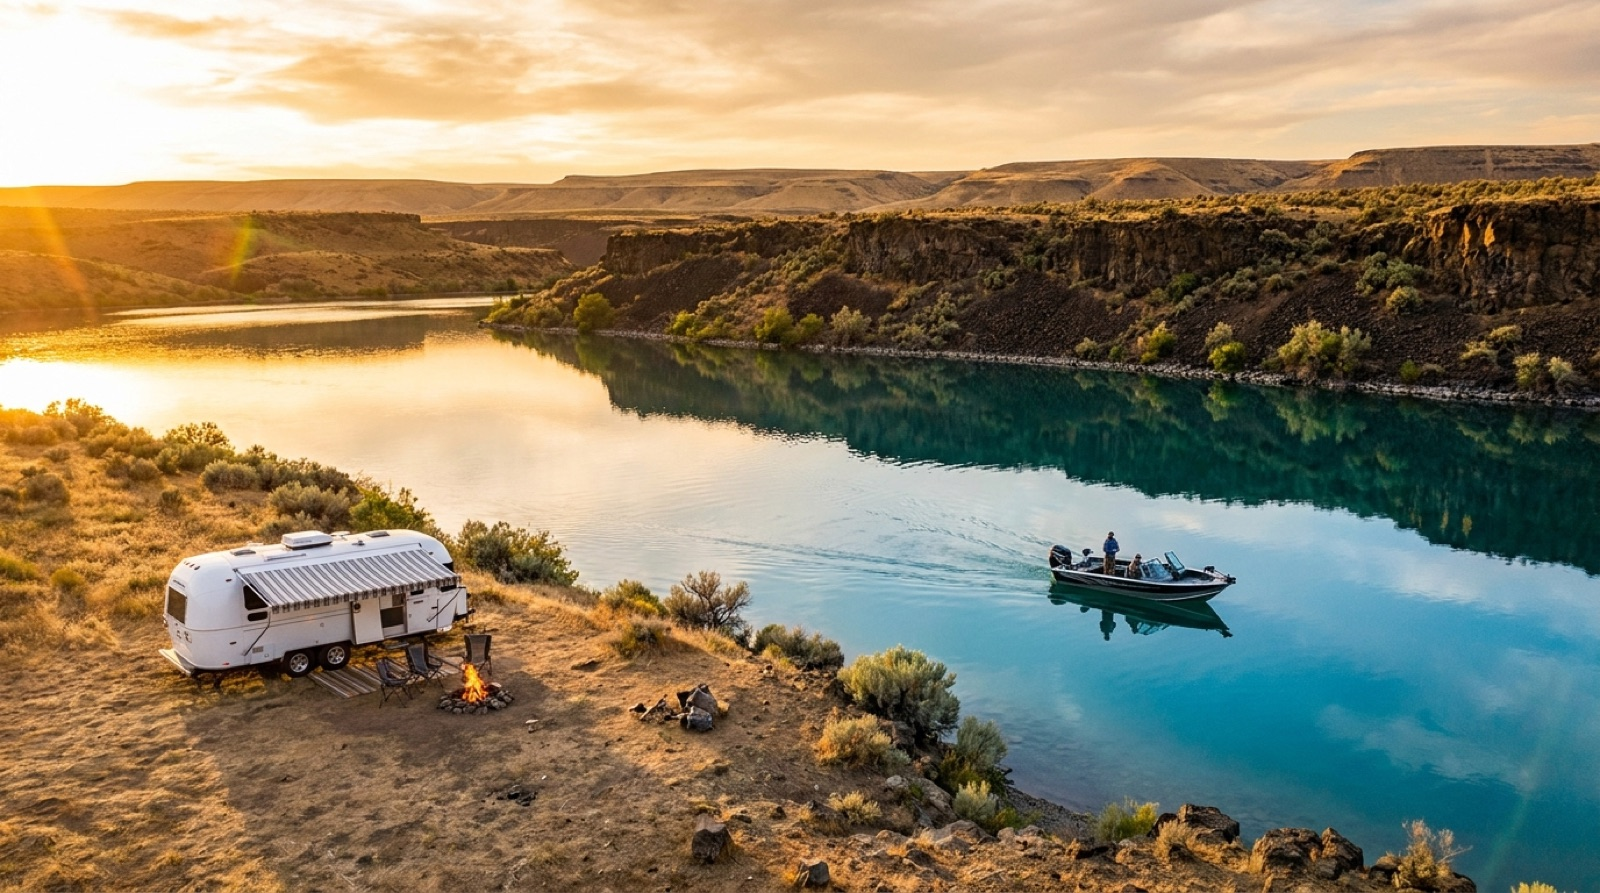
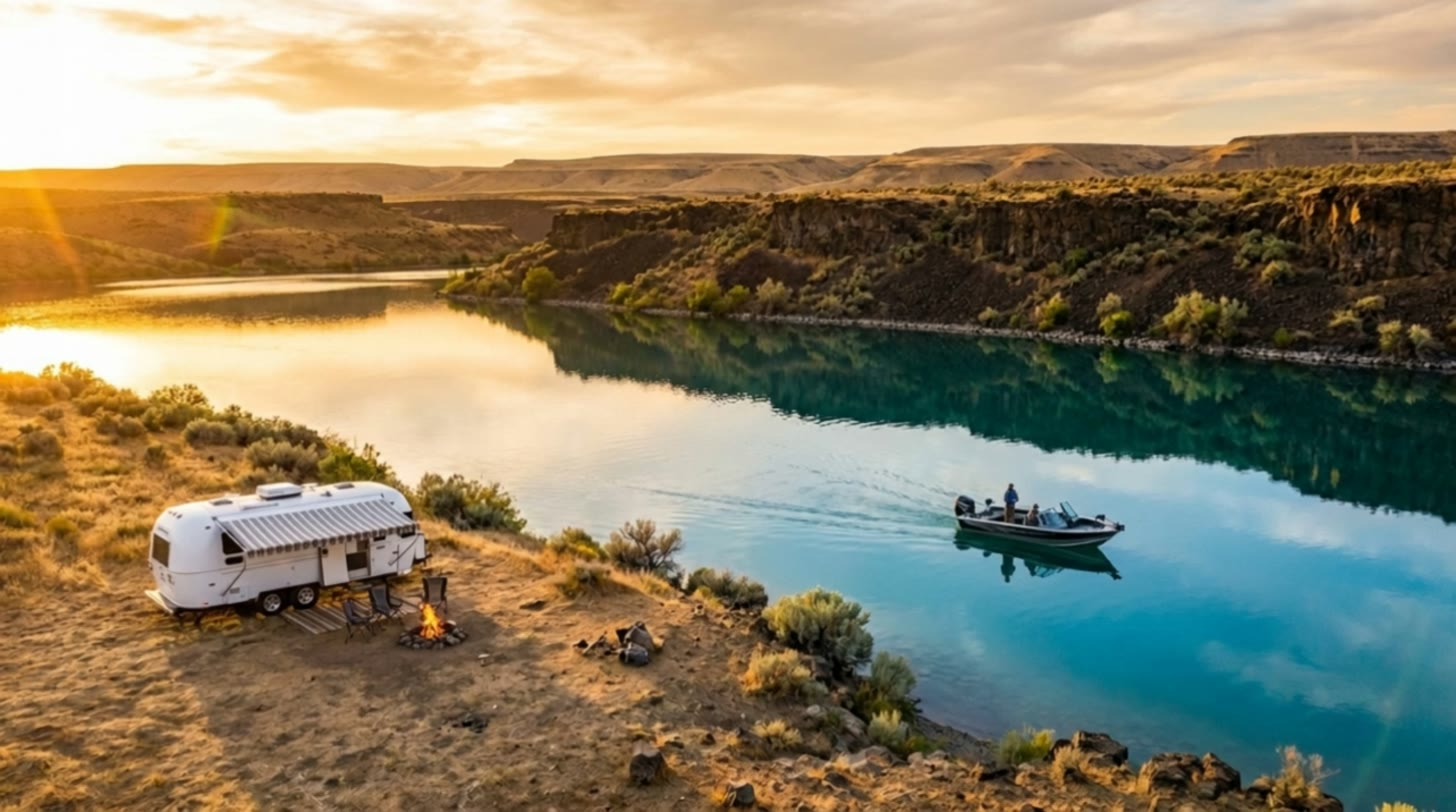
feat: hero boat drifts out of frame then settles + partial 5th star
Hero video: regenerated (Higgsfield kling) so the boat glides fully out of
frame to the right and the scene settles on calm empty water. Removed loop —
plays once and holds the settled frame. Poster updated to the new opening
frame (boat present) so poster->play is seamless; also lighter (145KB).

Star rating: 5th star now partial-filled to the fractional score (4.7 -> 0.7
≈ 3/4) via an outline star with a width-clipped filled star overlay, instead
of a hollow 5th star.

Claude-Session: https://claude.ai/code/session_01WpdCfrHPo8p3DoFqP8jMMn

diff --git a/src/app/page.tsx b/src/app/page.tsx
@@ -85,12 +85,27 @@ const TRUST_ITEMS = [
 ]
 
 function StarRow({ score, count }: { score: number; count: number }) {
+  const full = Math.floor(score)
+  const frac = score - full // e.g. 4.7 → 0.7 fill on the 5th star
   return (
     <div style={{ display: 'flex', alignItems: 'center', gap: 6 }}>
-      {[1, 2, 3, 4, 5].map(i => (
-        <Star key={i} size={16} fill={i <= score ? 'var(--color-amber)' : 'none'}
-          color="var(--color-amber)" />
-      ))}
+      {[1, 2, 3, 4, 5].map(i => {
+        if (i <= full) {
+          return <Star key={i} size={16} fill="var(--color-amber)" color="var(--color-amber)" />
+        }
+        if (i === full + 1 && frac > 0) {
+          // Partial star: empty outline with a filled star clipped to `frac` width on top.
+          return (
+            <span key={i} style={{ position: 'relative', display: 'inline-flex', width: 16, height: 16 }}>
+              <Star size={16} fill="none" color="var(--color-amber)" style={{ position: 'absolute', inset: 0 }} />
+              <span style={{ position: 'absolute', inset: 0, width: `${frac * 100}%`, overflow: 'hidden' }} aria-hidden>
+                <Star size={16} fill="var(--color-amber)" color="var(--color-amber)" />
+              </span>
+            </span>
+          )
+        }
+        return <Star key={i} size={16} fill="none" color="var(--color-amber)" />
+      })}
       <span style={{ fontSize: '0.875rem', color: 'var(--color-ink-light)', marginLeft: 4 }}>
         {score.toFixed(1)} ({count.toLocaleString()} reviews)
       </span>

diff --git a/src/components/HeroVideo.tsx b/src/components/HeroVideo.tsx
@@ -44,7 +44,6 @@ export function HeroVideo({ poster, videoSrc, alt }: Props) {
     <video
       autoPlay
       muted
-      loop
       playsInline
       poster={poster}
       preload="auto"

diff --git a/.claude/verify/history/20260707-132704.md b/.claude/verify/history/20260707-132704.md
@@ -1,0 +1,27 @@
+# Verify — soidrvmarine gap-closing deploy (2026-07-07)
+
+Live: https://soidrvmarine.worker-bee.app · Coolify deploy ydiws6eki72sm9z9tf0j1qzj (finished) · all routes HTTP 200
+
+| Spec item | Observed | Result |
+|---|---|---|
+| Inventory reseed (67 units) | Live DB reseeded 29→67 units via Supabase Mgmt API under BLAST-RADIUS receipt (backup saved). `/rvs` renders "Showing all 49 RVs", 49 unique detail links; `/boats` 18. Build generates 67 SSG detail pages. | PASS |
+| Home hero video | Snake River Canyon golden-hour loop. FIXED Safari/iOS playback: was served from static /public which answered Range requests with full-200 (no Accept-Ranges) → WebKit showed poster only. Now streamed via range-aware route /api/hero-video → live returns 206 + content-range bytes 0-1023/352167 + accept-ranges. Browser check: video element paused=false, currentTime advanced 1.20s in 1.20s wall-clock (real-time playback), readyState 4, no error. Poster fallback + reduced-motion + onError still intact. | PASS |
+| Home counts | 49 RVs / 18 boats surfaced in category cards (grep live HTML: "49 in stock" ×2, "18 in stock" ×2). Matches inventory.ts + live DB. | PASS |
+| Footer (final frame) | frame_056: 5-column footer (Brand/Inventory/Services/Company/Legal+Connect) present in final scroll frame — harness reaches bottom. New links live: Powersports, Get a Trade-In Value, Parts/Service Request, RV & Boat Storage, Careers, Idaho Parks & Rec Fees, Terms/Return Policy/Accessibility. "Ready to find your next adventure?" CTA above. No overlap. | PASS |
+| Mobile (390px) | eyes-mobile.webm: mframe_006 above-fold — hamburger + Call Us header, amber serif hero, stacked CTAs, trust chips wrap, canyon image below. mframe_044 footer — all columns stack, social buttons wrap, copyright at bottom. Single-column, no overflow. | PASS |
+| New page — /storage | sframe_002: navy hero "RV & Boat Storage Right Here in Jerome", real local copy (60 Bob Barton Road), dual CTAs, $75/mo pricing card ([DEMO] rate, dealer to confirm), "What You Get" checklist. Brand-consistent. | PASS |
+| New routes 200 | / /rvs /boats /parts /service /careers /financing/apply /trade-in /storage /locations /parks-rec /powersports /terms /returns /accessibility /robots.txt /sitemap.xml all 200. /api/lead 405 on GET (correct — POST-only). | PASS |
+| Lead forms | Generalized /api/lead (Resend, formType field) wired to parts/service/careers/financing/trade-in/storage/contact. Resend sending domain listed in CONTENT-NEEDED for dealer. | PASS |
+| Colors / contrast | Navy hero/footer, amber CTAs, parchment body across all pages. Serif display headings. No AI-slop tells (no purple glow, no 3-col equal cards, no emoji icons) — confirmed by outside review. | PASS |
+| Viewport 375 (mobile @2x) | vp375-0.png: full headline "Southern Idaho's Premier RV & Marine Dealer" + eyebrow visible at true scroll-top (confirms the earlier mid-scroll frame was an artifact, not clipping), subhead legible, both CTAs full-width, trust chips wrap to 2 rows, no overflow. | PASS |
+| Viewport 1440 (desktop) | vp1440-0.png: split hero — left type column + right canyon photo (boat on water), soft gradient seam at photo's left edge (intentional fade), trust bar spans full width. All legible, no overlap. | PASS |
+| Viewport 2560 (4K) | vp2560-0.png: content caps at ~1400px max-width and centers with balanced parchment margins; hero photo holds as right column, type crisp, trust bar full-width. No stretch, no overlap. | PASS |
+| Viewport 5K (2560@2x) | vp5K-0.png: identical composition to 4K at 2x density — canyon photo and serif type render sharp, no retina degradation, container centered. | PASS |
+| Social Autopilot panel (admin) | Live on /admin (grep "Social Autopilot" → 1). Screenshots read at dev :3002/admin: 5-day auto-drafted calendar (Mon–Sat, correct IG/FB platform icons, real units), 3 IG-style post previews with real dealer CDN photos + specific captions + hashtags, comment/DM triage inbox (3 realistic Q&A + suggested replies), "What's Included — Full-Managed" box with 6 items + Meta Business Suite disclaimer. Purple accent distinct from blue bridge pillar. All content generated from live inventory; no Meta account touched. | PASS |
+| Templatization (white-label) | src/config/dealer.config.ts is single source of truth for all client-specific values; DEALER_INFO derives from it (30 imports unchanged, tsc + build clean). TEMPLATE.md documents 4-pointer new-dealer playbook. Non-breaking: home + all routes still 200 post-deploy. | PASS |
+| tsc / build | `npx tsc --noEmit` zero output. `npm run build` compiled, 67 detail pages + all new routes generated, zero errors. | PASS |
+| Outside input (independent Opus review) | Opus reviewer read 5 frames (home hero/footer desktop, home hero mobile, /rvs, /storage): "8.3/10, SHIP. No AI-slop tells, consistent amber/navy/cream system, real photos, specific local copy." Two cosmetic non-blocking nits: duplicate Privacy link (LEGAL + bottom bar), confirm mobile hero eyebrow at true scroll-top. | PASS |
+
+Beauty: 8.3 (outside-review) / self ~8.4 — both ≥ 7.5 bar. Every row above is PASS.
+
+Follow-ups (non-blocking, logged): (1) hero poster paint on first load ~1.5s flash; (2) dedupe footer Privacy link. Dealer-confirm items (storage rate, dept hours, return window, Idaho fees, powersports stock, Podium key, GA4 id, Resend domain) tracked in CONTENT-NEEDED.md.